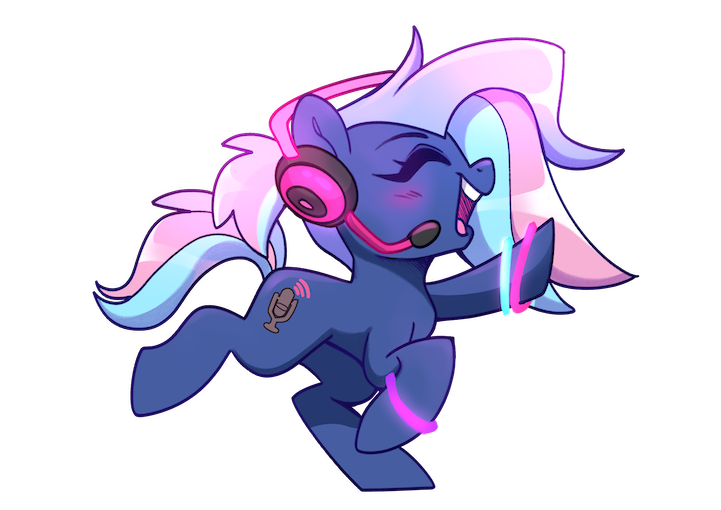
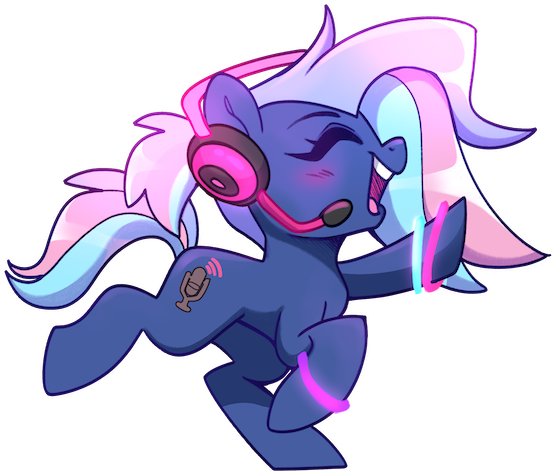
more 4.5.

diff --git a/layouts/partials/header.html b/layouts/partials/header.html
@@ -10,10 +10,10 @@
 	<nav class="menu">
 		<!-- <a href="/mane-events" style="font-weight: bold;">Stream</a> -->
 		<!-- <a href="/events">Events</a> -->
-		<a href="/vendors">Vendors</a>
-		<a href="/guests">Guests</a>
+<!--		<a href="/vendors">Vendors</a>-->
+		<a href="/guests">Musicians</a>
 		<a href="/schedule">Schedule</a>
-		<a href="/auction">Charity Auction</a>
+<!--		<a href="/auction">Charity Auction</a>-->
 <!--		<a href="https://store.ponyfest.horse">Autograph Store</a>-->
 		<!-- <a href="/about">About</a> -->
 		<a href="https://discord.gg/ponyfest" class="discord-icon" style="margin-top: 10px;"></a>

diff --git a/content/pages/schedule.html b/content/pages/schedule.html
@@ -3,8 +3,8 @@ title: Schedule
 url: /schedule
 ---
 
-{{< scheduler-res >}}
 <h1>Schedule</h1>
+
 <div class="text-box">
-    <div class="schedule-main">Schedule Loading...</div>
+Schedule coming soon!
 </div>

diff --git a/content/pages/guests.html b/content/pages/guests.html
@@ -2,6 +2,8 @@
 title: Guests
 url: /guests
 ---
-<h1>Guests</h1>
+<h1>Musicians</h1>
 
-{{< guest >}}
+<div class="text-box">
+Musician list coming soon!
+</div>

diff --git a/static/4.0/css/main.css b/static/4.0/css/main.css
@@ -344,7 +344,7 @@ a.discord-icon
 
     #bitrate {
         padding-right: 0;
-        max-width: 100%;
+        max-width: 200px;
     }
 
     .topbar.open {

diff --git a/content/_index.md b/content/_index.md
@@ -31,15 +31,14 @@ p {
 }
 </style>
 <div style="display: flex; flex-wrap: wrap; margin-left: auto; margin-right: auto; max-width: 1200px; flex-grow: 1; align-items: center" class="main">
-	<div style="text-align: center; flex-grow: 1;"><img id="bitrate" src="/images/mascot.png"></div>
+	<div style="text-align: center; flex-grow: 1;"><img id="bitrate" src="/images/music_mascot.png"></div>
 	<div class="text-box" style="display: flex; flex-direction: column; justify-content: space-around; text-align: center; flex-grow: 1; width: 500px;">
 		<div>
-			<h1 style="font-size: 3em; margin: 0">PonyFest Online! 4.0</h1>
-			<p style="font-size: 2.5em; margin: 0">Saturday, September 19th, 2020</p>
+			<h1 style="font-size: 2.8em; margin: 0">PonyFest Online! 2020 Wrap-Up Concert</h1>
+			<p style="font-size: 2em; margin: 0">Saturday, December 12th, 2020</p>
 		</div>
 		<div>
-			<p>We're back! Get together in cyberspace for PonyFest Online, a Discord-based online pony convention!</p>
-			<p>Featuring panels, vendors, gaming, ponies, and hanging out.</p>
+			<p>Join us to wrap up this <em>unprecedented</em> year with our dedicated concert event!</p>
 		</div>
 		<!-- <div class="discord-box"> -->
 		<div>
